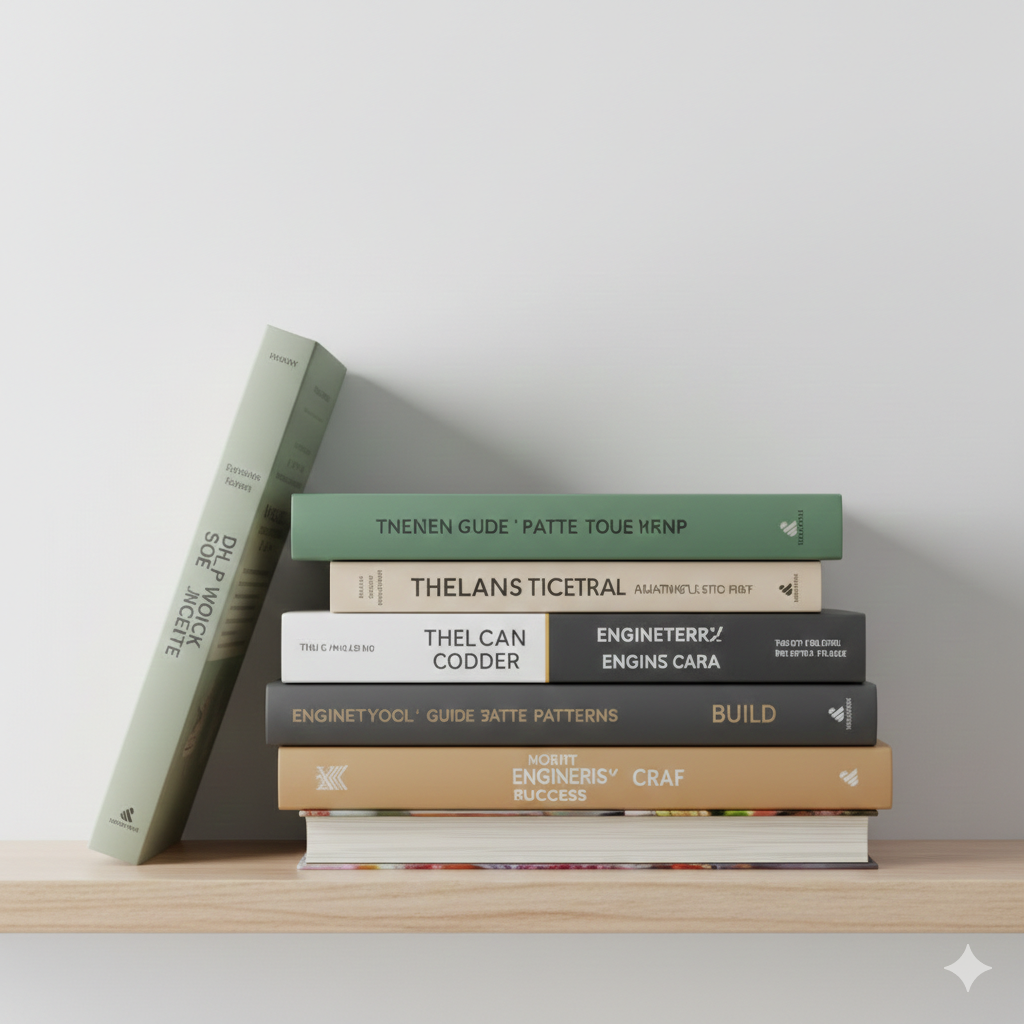
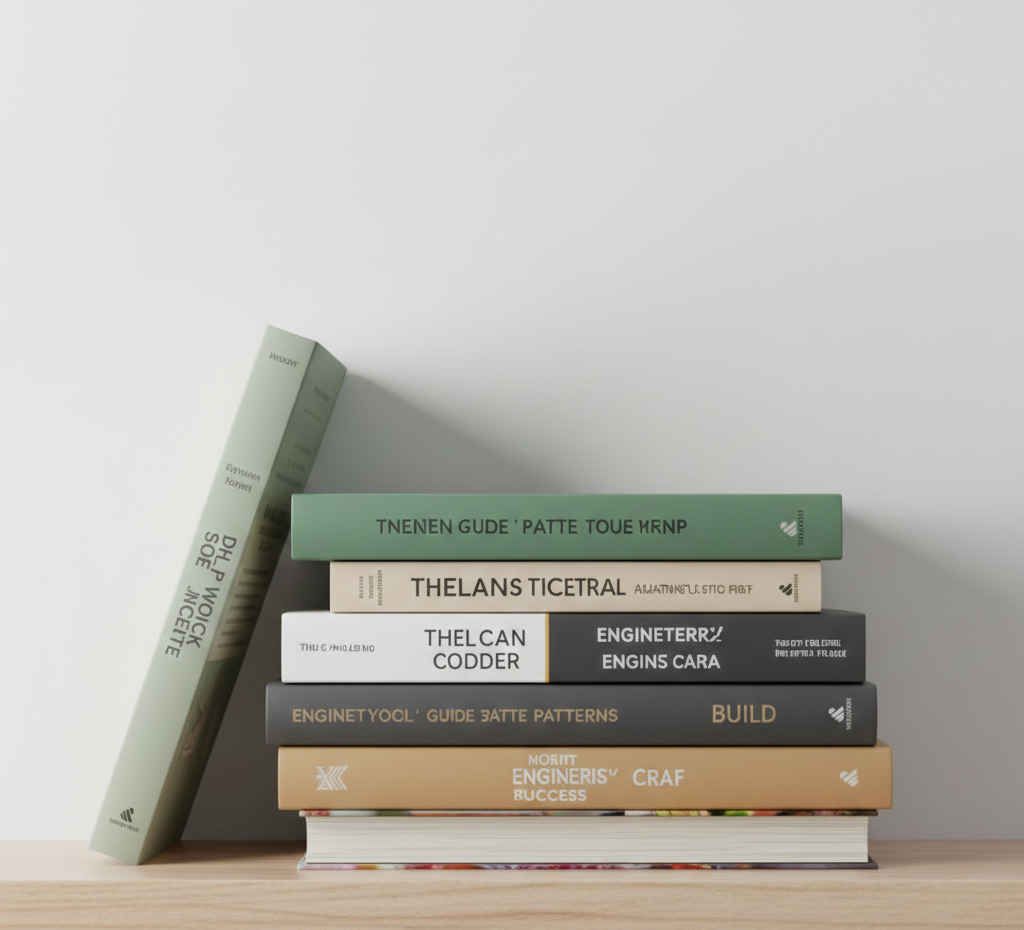
hero section update

diff --git a/components/home/Hero.tsx b/components/home/Hero.tsx
@@ -6,8 +6,7 @@ const Hero = () => {
   return (
     <section className="bg-white border-b border-[#DAD3C8]">
       <div className="container mx-auto px-6 py-16 lg:py-28">
-        <div className="grid lg:grid-cols-2 gap-12 items-center">
-          {/* Left: Content */}
+        <div className="flex flex-col-reverse lg:flex-row gap-12 items-center">
           <div className="space-y-4 max-w-2xl">
             <h1 className="text-5xl md:text-5xl font-bold text-[#1A1A1A] uppercase leading-15">
               Welcome to a Place of Knowledge
